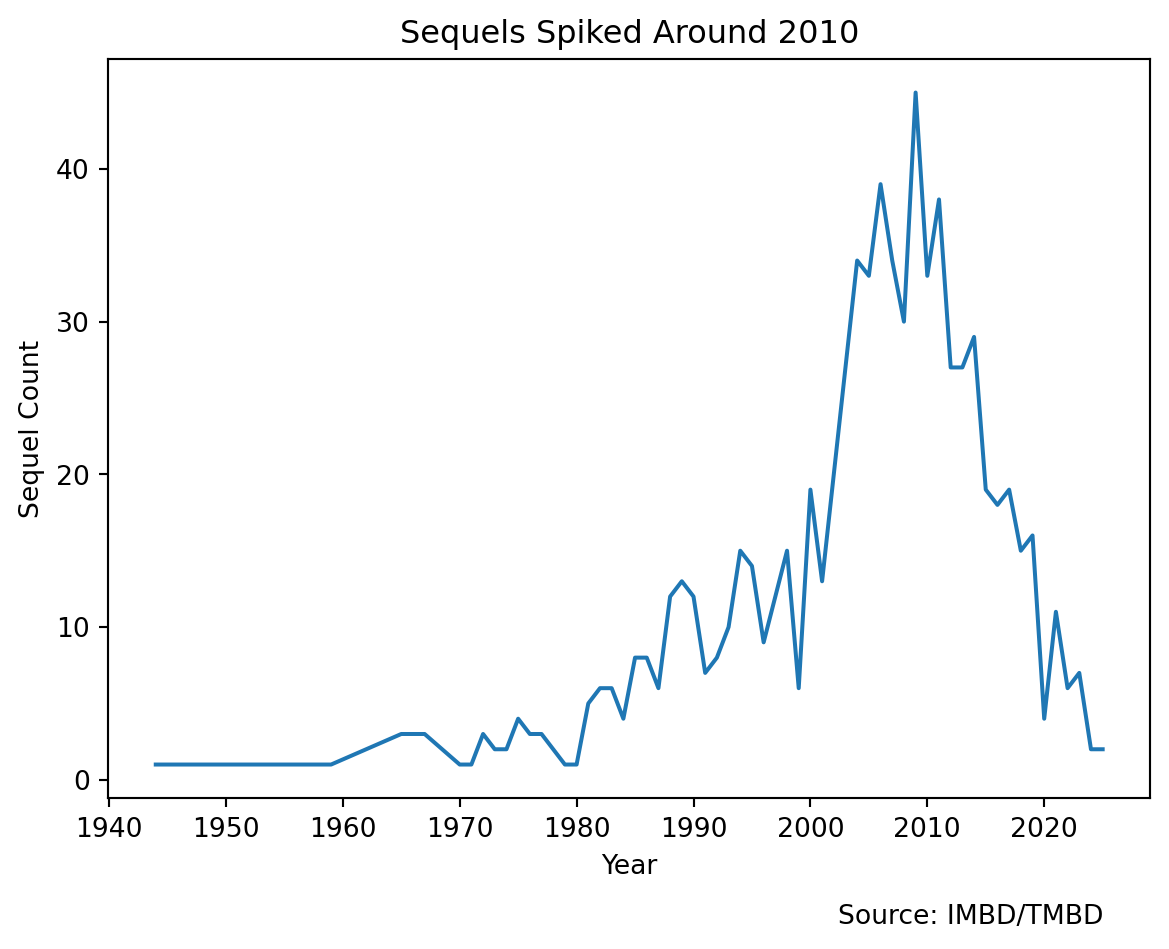
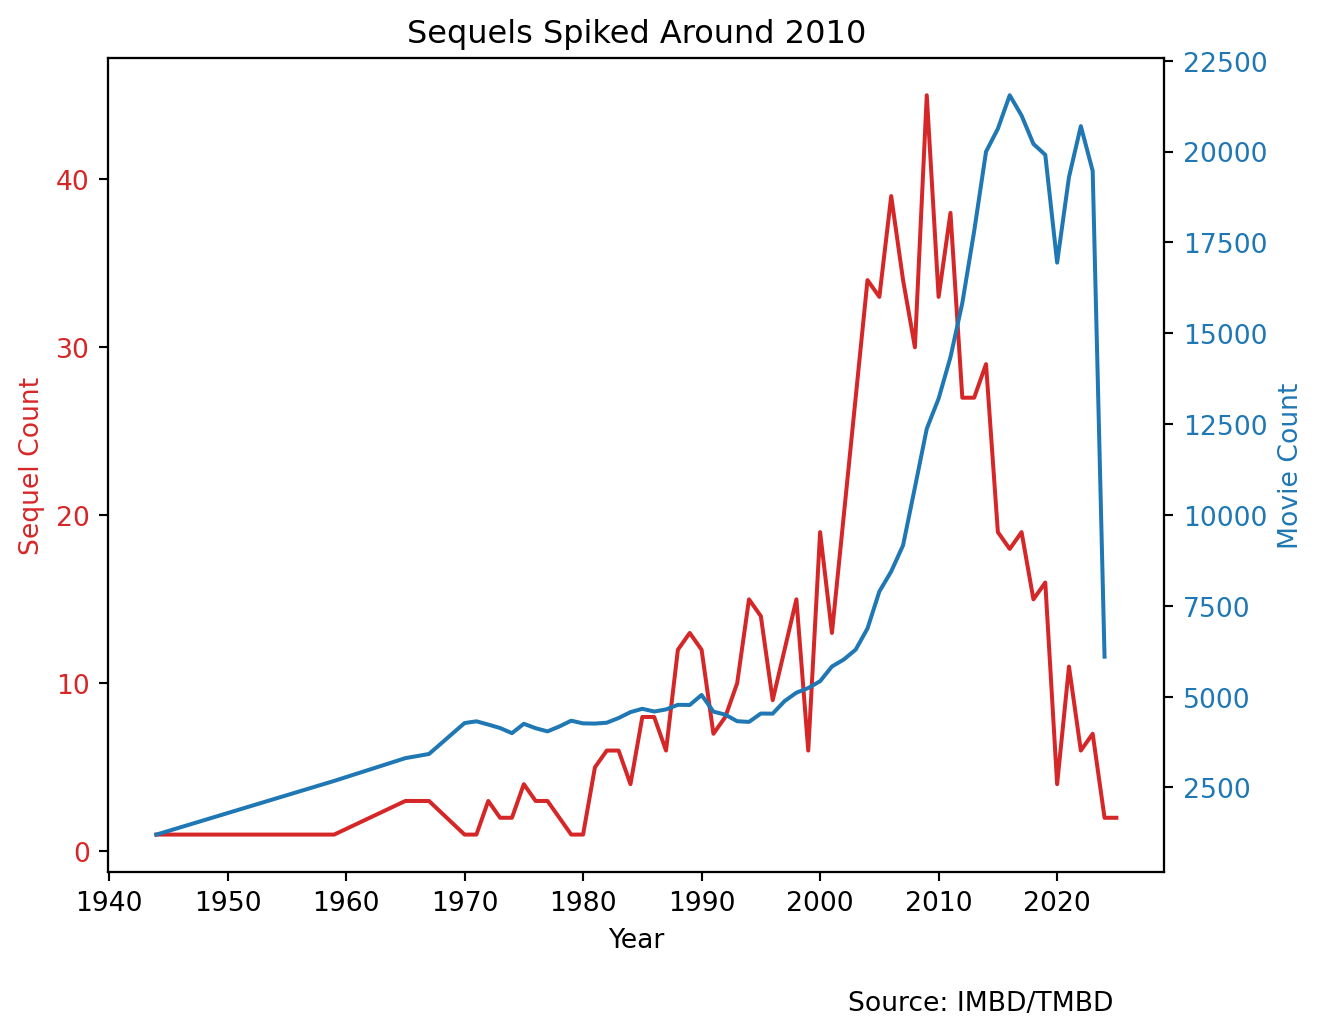
more blog updates

diff --git a/_site/blog.html b/_site/blog.html
@@ -214,7 +214,7 @@ window.Quarto = {
 
 <div class="quarto-listing quarto-listing-container-default" id="listing-listing">
 <div class="list quarto-listing-default">
-<div class="quarto-post image-right" data-index="0" data-listing-file-modified-sort="1711455930631" data-listing-reading-time-sort="2" data-listing-word-count-sort="270">
+<div class="quarto-post image-right" data-index="0" data-listing-file-modified-sort="1711434046400" data-listing-reading-time-sort="2" data-listing-word-count-sort="270">
 <div class="thumbnail">
 <p><a href="./posts/movie_sequels/analysis.html" class="no-external"></a></p><a href="./posts/movie_sequels/analysis.html" class="no-external">
 <p class="card-img-top"><img src="posts/movie_sequels/analysis_files/figure-html/cell-12-output-2.png"  class="thumbnail-image card-img"/></p>
@@ -233,7 +233,7 @@ window.Quarto = {
 </a>
 </div>
 </div>
-<div class="quarto-post image-right" data-index="1" data-categories="Python,Stats,Dataviz" data-listing-date-sort="1709510400000" data-listing-file-modified-sort="1711455930626" data-listing-date-modified-sort="NaN" data-listing-reading-time-sort="3" data-listing-word-count-sort="581">
+<div class="quarto-post image-right" data-index="1" data-categories="Python,Stats,Dataviz" data-listing-date-sort="1709528400000" data-listing-file-modified-sort="1711176073581" data-listing-date-modified-sort="NaN" data-listing-reading-time-sort="3" data-listing-word-count-sort="581">
 <div class="thumbnail">
 <p><a href="./posts/election_2024/index.html" class="no-external"></a></p><a href="./posts/election_2024/index.html" class="no-external">
 <p><img src="https://external-content.duckduckgo.com/iu/?u=https%3A%2F%2Ftse3.mm.bing.net%2Fth%3Fid%3DOIP.Sg4vA_XJdXeFFWVlG-RwQQHaEK%26pid%3DApi&amp;f=1&amp;ipt=0df12f5ec930c9f3754f2fd22f2b3787f72fdd6e8c850c3a5820c09b94b05233&amp;ipo=images" class="thumbnail-image"></p>
@@ -266,7 +266,7 @@ Mar 4, 2024
 </a>
 </div>
 </div>
-<div class="quarto-post image-right" data-index="2" data-categories="Life Hacks,Commentary" data-listing-date-sort="1707264000000" data-listing-file-modified-sort="1711455930628" data-listing-date-modified-sort="NaN" data-listing-reading-time-sort="9" data-listing-word-count-sort="1761">
+<div class="quarto-post image-right" data-index="2" data-categories="Life Hacks,Commentary" data-listing-date-sort="1707282000000" data-listing-file-modified-sort="1711176151335" data-listing-date-modified-sort="NaN" data-listing-reading-time-sort="9" data-listing-word-count-sort="1761">
 <div class="thumbnail">
 <p><a href="./posts/masters_degree/index.html" class="no-external"></a></p><a href="./posts/masters_degree/index.html" class="no-external">
 <p><img src="https://www.lecole.edu.pk/wp-content/uploads/2021/01/Education-Pic.jpg" class="thumbnail-image"></p>
@@ -296,7 +296,7 @@ Feb 7, 2024
 </a>
 </div>
 </div>
-<div class="quarto-post image-right" data-index="3" data-categories="Life Hacks,Commentary" data-listing-date-sort="1697760000000" data-listing-file-modified-sort="1711455930636" data-listing-date-modified-sort="NaN" data-listing-reading-time-sort="7" data-listing-word-count-sort="1337">
+<div class="quarto-post image-right" data-index="3" data-categories="Life Hacks,Commentary" data-listing-date-sort="1697778000000" data-listing-file-modified-sort="1711176203008" data-listing-date-modified-sort="NaN" data-listing-reading-time-sort="7" data-listing-word-count-sort="1337">
 <div class="thumbnail">
 <p><a href="./posts/path_to_datascience/index.html" class="no-external"></a></p><a href="./posts/path_to_datascience/index.html" class="no-external">
 <p><img src="./posts/path_to_datascience/tile.png" class="thumbnail-image"></p>
@@ -326,7 +326,7 @@ Oct 20, 2023
 </a>
 </div>
 </div>
-<div class="quarto-post image-right" data-index="4" data-categories="Google Trends,Data Journalism,Politics,CICD" data-listing-date-sort="1696377600000" data-listing-file-modified-sort="1711455930638" data-listing-date-modified-sort="NaN" data-listing-reading-time-sort="7" data-listing-word-count-sort="1253">
+<div class="quarto-post image-right" data-index="4" data-categories="Google Trends,Data Journalism,Politics,CICD" data-listing-date-sort="1696395600000" data-listing-file-modified-sort="1711176218913" data-listing-date-modified-sort="NaN" data-listing-reading-time-sort="7" data-listing-word-count-sort="1253">
 <div class="thumbnail">
 <p><a href="./posts/primary_stream/index.html" class="no-external"></a></p><a href="./posts/primary_stream/index.html" class="no-external">
 <p><img src="././about_files/primary_1.png" class="thumbnail-image"></p>
@@ -362,7 +362,7 @@ Oct 4, 2023
 </a>
 </div>
 </div>
-<div class="quarto-post image-right" data-index="5" data-categories="CICD,Quarto" data-listing-date-sort="1694044800000" data-listing-file-modified-sort="1711455930625" data-listing-date-modified-sort="NaN" data-listing-reading-time-sort="7" data-listing-word-count-sort="1262">
+<div class="quarto-post image-right" data-index="5" data-categories="CICD,Quarto" data-listing-date-sort="1694062800000" data-listing-file-modified-sort="1711176061391" data-listing-date-modified-sort="NaN" data-listing-reading-time-sort="7" data-listing-word-count-sort="1262">
 <div class="thumbnail">
 <p><a href="./posts/cicd_primary/index.html" class="no-external"></a></p><a href="./posts/cicd_primary/index.html" class="no-external">
 <p><img src="https://external-content.duckduckgo.com/iu/?u=https%3A%2F%2Fwww.adictosaltrabajo.com%2Fwp-content%2Fuploads%2F2020%2F10%2Fandroid-github-actions-setup-image-35b6a79fea4a7289acb6796cd4ad05b4.png&amp;f=1&amp;nofb=1&amp;ipt=b02a4ecfb6e2d666f35916b643a6f3e9907e880252d1e19d3eda47521252e9c3&amp;ipo=images" class="thumbnail-image"></p>
@@ -392,7 +392,7 @@ Sep 7, 2023
 </a>
 </div>
 </div>
-<div class="quarto-post image-right" data-index="6" data-categories="Life Hacks,Quarto" data-listing-date-sort="1688601600000" data-listing-file-modified-sort="1711455930638" data-listing-date-modified-sort="NaN" data-listing-reading-time-sort="2" data-listing-word-count-sort="395">
+<div class="quarto-post image-right" data-index="6" data-categories="Life Hacks,Quarto" data-listing-date-sort="1688619600000" data-listing-file-modified-sort="1711176263239" data-listing-date-modified-sort="NaN" data-listing-reading-time-sort="2" data-listing-word-count-sort="395">
 <div class="thumbnail">
 <p><a href="./posts/simple_analytics/index.html" class="no-external"></a></p><a href="./posts/simple_analytics/index.html" class="no-external">
 <p><img src="./about_files/Simple_Analytics.png" class="thumbnail-image"></p>
@@ -422,7 +422,7 @@ Jul 6, 2023
 </a>
 </div>
 </div>
-<div class="quarto-post image-right" data-index="7" data-categories="Data Journalism,Google Trends,Politics" data-listing-date-sort="1687824000000" data-listing-file-modified-sort="1711455930627" data-listing-date-modified-sort="NaN" data-listing-reading-time-sort="7" data-listing-word-count-sort="1240">
+<div class="quarto-post image-right" data-index="7" data-categories="Data Journalism,Google Trends,Politics" data-listing-date-sort="1687842000000" data-listing-file-modified-sort="1711176102779" data-listing-date-modified-sort="NaN" data-listing-reading-time-sort="7" data-listing-word-count-sort="1240">
 <div class="thumbnail">
 <p><a href="./posts/google_trends/index.html" class="no-external"></a></p><a href="./posts/google_trends/index.html" class="no-external">
 <p><img src="./about_files/byteman.png" class="thumbnail-image"></p>
@@ -455,7 +455,7 @@ Jun 27, 2023
 </a>
 </div>
 </div>
-<div class="quarto-post image-right" data-index="8" data-categories="Data Journalism,LDS,R" data-listing-date-sort="1675728000000" data-listing-file-modified-sort="1711455930627" data-listing-date-modified-sort="NaN" data-listing-reading-time-sort="4" data-listing-word-count-sort="621">
+<div class="quarto-post image-right" data-index="8" data-categories="Data Journalism,LDS,R" data-listing-date-sort="1675746000000" data-listing-file-modified-sort="1711176118552" data-listing-date-modified-sort="NaN" data-listing-reading-time-sort="4" data-listing-word-count-sort="621">
 <div class="thumbnail">
 <p><a href="./posts/income_myth/index.html" class="no-external"></a></p><a href="./posts/income_myth/index.html" class="no-external">
 <p><img src="./about_files/LDS_myth_0.png" class="thumbnail-image"></p>
@@ -488,7 +488,7 @@ Feb 7, 2023
 </a>
 </div>
 </div>
-<div class="quarto-post image-right" data-index="9" data-categories="Life Hacks,Quarto" data-listing-date-sort="1662076800000" data-listing-file-modified-sort="1711455930638" data-listing-date-modified-sort="NaN" data-listing-reading-time-sort="3" data-listing-word-count-sort="595">
+<div class="quarto-post image-right" data-index="9" data-categories="Life Hacks,Quarto" data-listing-date-sort="1662094800000" data-listing-file-modified-sort="1711176234653" data-listing-date-modified-sort="NaN" data-listing-reading-time-sort="3" data-listing-word-count-sort="595">
 <div class="thumbnail">
 <p><a href="./posts/resume/index.html" class="no-external"></a></p><a href="./posts/resume/index.html" class="no-external">
 <p><img src="./about_files/resume_2.png" class="thumbnail-image"></p>
@@ -518,7 +518,7 @@ Sep 2, 2022
 </a>
 </div>
 </div>
-<div class="quarto-post image-right" data-index="10" data-categories="Python,Stats,Dataviz,Data Journalism" data-listing-date-sort="1660867200000" data-listing-file-modified-sort="1711455930624" data-listing-date-modified-sort="NaN" data-listing-reading-time-sort="10" data-listing-word-count-sort="1918">
+<div class="quarto-post image-right" data-index="10" data-categories="Python,Stats,Dataviz,Data Journalism" data-listing-date-sort="1660885200000" data-listing-file-modified-sort="1711425417654" data-listing-date-modified-sort="NaN" data-listing-reading-time-sort="10" data-listing-word-count-sort="1918">
 <div class="thumbnail">
 <p><a href="./posts/bayesian_county/index.html" class="no-external"></a></p><a href="./posts/bayesian_county/index.html" class="no-external">
 <p><img src="./about_files/school_7.png" class="thumbnail-image"></p>
@@ -554,7 +554,7 @@ Aug 19, 2022
 </a>
 </div>
 </div>
-<div class="quarto-post image-right" data-index="11" data-categories="Survey Research,Data Journalism,LDS" data-listing-date-sort="1646265600000" data-listing-file-modified-sort="1711455930622" data-listing-date-modified-sort="NaN" data-listing-reading-time-sort="7" data-listing-word-count-sort="1250">
+<div class="quarto-post image-right" data-index="11" data-categories="Survey Research,Data Journalism,LDS" data-listing-date-sort="1646283600000" data-listing-file-modified-sort="1711176032327" data-listing-date-modified-sort="NaN" data-listing-reading-time-sort="7" data-listing-word-count-sort="1250">
 <div class="thumbnail">
 <p><a href="./posts/7_facts/index.html" class="no-external"></a></p><a href="./posts/7_facts/index.html" class="no-external">
 <p><img src="https://www.ldstemple.pics/wp-content/uploads/washington-dc-temple-final-sunset-600x600.jpg" class="thumbnail-image"></p>
@@ -587,7 +587,7 @@ Mar 3, 2022
 </a>
 </div>
 </div>
-<div class="quarto-post image-right" data-index="12" data-categories="Data Journalism,R" data-listing-date-sort="1618012800000" data-listing-file-modified-sort="1711455930627" data-listing-date-modified-sort="NaN" data-listing-reading-time-sort="4" data-listing-word-count-sort="699">
+<div class="quarto-post image-right" data-index="12" data-categories="Data Journalism,R" data-listing-date-sort="1618030800000" data-listing-file-modified-sort="1711176091403" data-listing-date-modified-sort="NaN" data-listing-reading-time-sort="4" data-listing-word-count-sort="699">
 <div class="thumbnail">
 <p><a href="./posts/facebook_data/index.html" class="no-external"></a></p><a href="./posts/facebook_data/index.html" class="no-external">
 <p><img src="./about_files/fb_icon" class="thumbnail-image"></p>
@@ -617,7 +617,7 @@ Apr 10, 2021
 </a>
 </div>
 </div>
-<div class="quarto-post image-right" data-index="13" data-categories="Data Journalism,R,Survey Research,LDS,Politics" data-listing-date-sort="1607472000000" data-listing-file-modified-sort="1711455930627" data-listing-date-modified-sort="NaN" data-listing-reading-time-sort="8" data-listing-word-count-sort="1443">
+<div class="quarto-post image-right" data-index="13" data-categories="Data Journalism,R,Survey Research,LDS,Politics" data-listing-date-sort="1607490000000" data-listing-file-modified-sort="1711176136095" data-listing-date-modified-sort="NaN" data-listing-reading-time-sort="8" data-listing-word-count-sort="1443">
 <div class="thumbnail">
 <p><a href="./posts/lds_gop/index.html" class="no-external"></a></p><a href="./posts/lds_gop/index.html" class="no-external">
 <p><img src="./about_files/iu-3.jpeg" class="thumbnail-image"></p>
@@ -656,7 +656,7 @@ Dec 9, 2020
 </a>
 </div>
 </div>
-<div class="quarto-post image-right" data-index="14" data-categories="Data Journalism,R" data-listing-date-sort="1594339200000" data-listing-file-modified-sort="1711455930624" data-listing-date-modified-sort="NaN" data-listing-reading-time-sort="7" data-listing-word-count-sort="1324">
+<div class="quarto-post image-right" data-index="14" data-categories="Data Journalism,R" data-listing-date-sort="1594357200000" data-listing-file-modified-sort="1711176046770" data-listing-date-modified-sort="NaN" data-listing-reading-time-sort="7" data-listing-word-count-sort="1324">
 <div class="thumbnail">
 <p><a href="./posts/cars/index.html" class="no-external"></a></p><a href="./posts/cars/index.html" class="no-external">
 <p><img src="https://media.giphy.com/media/rUE9CTmsYMbbOz2MqD/giphy.gif" class="thumbnail-image"></p>
@@ -686,7 +686,7 @@ Jul 10, 2020
 </a>
 </div>
 </div>
-<div class="quarto-post image-right" data-index="15" data-categories="Data Journalism,R,Shiny" data-listing-date-sort="1591660800000" data-listing-file-modified-sort="1711455930629" data-listing-date-modified-sort="NaN" data-listing-reading-time-sort="7" data-listing-word-count-sort="1205">
+<div class="quarto-post image-right" data-index="15" data-categories="Data Journalism,R,Shiny" data-listing-date-sort="1591678800000" data-listing-file-modified-sort="1711176165606" data-listing-date-modified-sort="NaN" data-listing-reading-time-sort="7" data-listing-word-count-sort="1205">
 <div class="thumbnail">
 <p><a href="./posts/mobility/index.html" class="no-external"></a></p><a href="./posts/mobility/index.html" class="no-external">
 <p><img src="./about_files/iu-2.jpeg" class="thumbnail-image"></p>

diff --git a/_site/posts/movie_sequels/index.html b/_site/posts/movie_sequels/index.html
@@ -183,12 +183,12 @@ ul.task-list li input[type="checkbox"] {
 <p><img src="https://cdn.pixabay.com/photo/2023/01/12/04/36/cinema-7713265_1280.png" class="img-fluid quarto-figure quarto-figure-center figure-img"></p>
 </figure>
 </div>
-<section id="introduction" class="level3">
-<h3 class="anchored" data-anchor-id="introduction">Introduction</h3>
+<section id="introduction" class="level2">
+<h2 class="anchored" data-anchor-id="introduction">Introduction</h2>
 <p>I’ve wanted to do this post for a while now. When I was younger, it seemed movies were more of a one-off thing. Now, it feels like almost every movie has a sequel and sometimes many more. Lets look at some data to see what’s going on here. For this analysis, I write down a series of questions and answer them one-by-one. Scroll down to see the questions ⬇</p>
 </section>
-<section id="data" class="level3">
-<h3 class="anchored" data-anchor-id="data">Data</h3>
+<section id="data" class="level2">
+<h2 class="anchored" data-anchor-id="data">Data</h2>
 <p>For the data, I used <a href="https://www.imdb.com/list/ls003495084/">a list created on IMDB</a> containing around 1200 movies and sequels. It is not an exhaustive list, but it covers a lot of ground. Unfortunately, this list was missing a few things I wanted such as the movie’s revenue, budget, language, production company, and other variables. I joined these in via the <a href="https://developer.themoviedb.org/docs/getting-started">TMBD API</a>. I am happy to share this data with others - just shoot me an email.</p>
 <div class="callout callout-style-default callout-warning callout-titled">
 <div class="callout-header d-flex align-content-center">
@@ -204,41 +204,41 @@ Warning
 </div>
 </div>
 </section>
-<section id="questions" class="level3">
-<h3 class="anchored" data-anchor-id="questions">Questions</h3>
-<section id="are-there-more-sequels-over-time" class="level5">
-<h5 class="anchored" data-anchor-id="are-there-more-sequels-over-time">Are There More Sequels Over Time?</h5>
-<div id="2009f26c" class="cell" data-execution_count="2">
+<section id="questions" class="level2">
+<h2 class="anchored" data-anchor-id="questions">Questions</h2>
+<section id="are-there-more-sequels-over-time" class="level4">
+<h4 class="anchored" data-anchor-id="are-there-more-sequels-over-time">Are There More Sequels Over Time?</h4>
+<div id="08dbe7e4" class="cell" data-execution_count="2">
 <div class="cell-output cell-output-display">
 <div>
 <figure class="figure">
-<p><img src="index_files/figure-html/cell-3-output-1.png" width="585" height="475" class="figure-img"></p>
+<p><img src="index_files/figure-html/cell-3-output-1.png" width="662" height="518" class="figure-img"></p>
 </figure>
 </div>
 </div>
 </div>
 <p>Add some commentary.</p>
 </section>
-<section id="do-sequels-make-more-than-the-original" class="level5">
-<h5 class="anchored" data-anchor-id="do-sequels-make-more-than-the-original">Do Sequels Make More Than The Original?</h5>
+<section id="do-sequels-make-more-than-the-original" class="level4">
+<h4 class="anchored" data-anchor-id="do-sequels-make-more-than-the-original">Do Sequels Make More Than The Original?</h4>
 </section>
-<section id="are-sequels-rated-higher-than-the-original" class="level5">
-<h5 class="anchored" data-anchor-id="are-sequels-rated-higher-than-the-original">Are Sequels Rated Higher Than The Original?</h5>
+<section id="are-sequels-rated-higher-than-the-original" class="level4">
+<h4 class="anchored" data-anchor-id="are-sequels-rated-higher-than-the-original">Are Sequels Rated Higher Than The Original?</h4>
 </section>
-<section id="are-sequels-more-popular-than-the-original" class="level5">
-<h5 class="anchored" data-anchor-id="are-sequels-more-popular-than-the-original">Are Sequels More Popular Than The Original?</h5>
+<section id="are-sequels-more-popular-than-the-original" class="level4">
+<h4 class="anchored" data-anchor-id="are-sequels-more-popular-than-the-original">Are Sequels More Popular Than The Original?</h4>
 </section>
-<section id="do-sequels-typically-recieve-less-budget" class="level5">
-<h5 class="anchored" data-anchor-id="do-sequels-typically-recieve-less-budget">Do Sequels Typically Recieve Less Budget?</h5>
+<section id="do-sequels-typically-recieve-less-budget" class="level4">
+<h4 class="anchored" data-anchor-id="do-sequels-typically-recieve-less-budget">Do Sequels Typically Recieve Less Budget?</h4>
 </section>
-<section id="does-budget-affect-the-success-of-sequels" class="level5">
-<h5 class="anchored" data-anchor-id="does-budget-affect-the-success-of-sequels">Does Budget Affect The Success of Sequels?</h5>
+<section id="does-budget-affect-the-success-of-sequels" class="level4">
+<h4 class="anchored" data-anchor-id="does-budget-affect-the-success-of-sequels">Does Budget Affect The Success of Sequels?</h4>
 </section>
-<section id="how-does-time-between-a-film-and-its-sequel-affect-its-success" class="level5">
-<h5 class="anchored" data-anchor-id="how-does-time-between-a-film-and-its-sequel-affect-its-success">How Does Time Between a Film and Its Sequel Affect Its Success?</h5>
+<section id="how-does-time-between-a-film-and-its-sequel-affect-its-success" class="level4">
+<h4 class="anchored" data-anchor-id="how-does-time-between-a-film-and-its-sequel-affect-its-success">How Does Time Between a Film and Its Sequel Affect Its Success?</h4>
 </section>
-<section id="are-sequels-who-keep-the-same-director-more-or-less-successful" class="level5">
-<h5 class="anchored" data-anchor-id="are-sequels-who-keep-the-same-director-more-or-less-successful">Are Sequels Who Keep The Same Director More Or Less Successful?</h5>
+<section id="are-sequels-who-keep-the-same-director-more-or-less-successful" class="level4">
+<h4 class="anchored" data-anchor-id="are-sequels-who-keep-the-same-director-more-or-less-successful">Are Sequels Who Keep The Same Director More Or Less Successful?</h4>
 
 
 </section>

diff --git a/posts/movie_sequels/.vdoc.py b/posts/movie_sequels/.vdoc.py
@@ -29,6 +29,13 @@
 #
 #
 #
+#
+#
+#
+#
+#
+#
+#
 # | include: false
 import pandas as pd
 import numpy as np
@@ -47,19 +54,43 @@ data = pd.read_csv("./cleaned_data.csv")
 sequels = data.query("sequel_num >= 2")
 
 # Scatter plot X: Time, Y: Count
+# filter to sequels only
+sequels = data.query("sequel_num >= 2")
+
+# Scatter plot X: Time, Y: Count
 y = sequels.groupby("Year").agg('count')['Title'].to_list()
 x = sequels.groupby("Year").agg('count')['Title'].index.to_list()
 
-sns.lineplot(x=x, y=y)
-plt.title("Sequels Spiked Around 2010")
-plt.xlabel("Year")
-plt.ylabel("Sequel Count")
+sequels = pd.DataFrame({"Num_sequels":y,"Year":x})
+sequels = sequels.merge(to_join, on="Year", how="left")
+y2 = sequels["Movie_num"]
+
+fig, ax1 = plt.subplots()
+
+color = 'tab:red'
+ax1.set_xlabel('Year')
+ax1.set_ylabel('Sequel Count', color=color)
+ax1.plot(x, y, color=color)
+ax1.tick_params(axis='y', labelcolor=color)
+
+ax2 = ax1.twinx()  # instantiate a second axes that shares the same x-axis
+
+color = 'tab:blue'
+ax2.set_ylabel('Movie Count', color=color)  # we already handled the x-label with ax1
+ax2.plot(x, y2, color=color)
+ax2.tick_params(axis='y', labelcolor=color)
+
+fig.tight_layout()  # otherwise the right y-label is slightly clipped
 plt.annotate(
     "Source: IMBD/TMBD",
     xy=(0.7, -0.17),
     xycoords="axes fraction",
 )
+
+plt.title("Sequels Spiked Around 2010")
 plt.show()
+#
+#
 #
 #
 #
